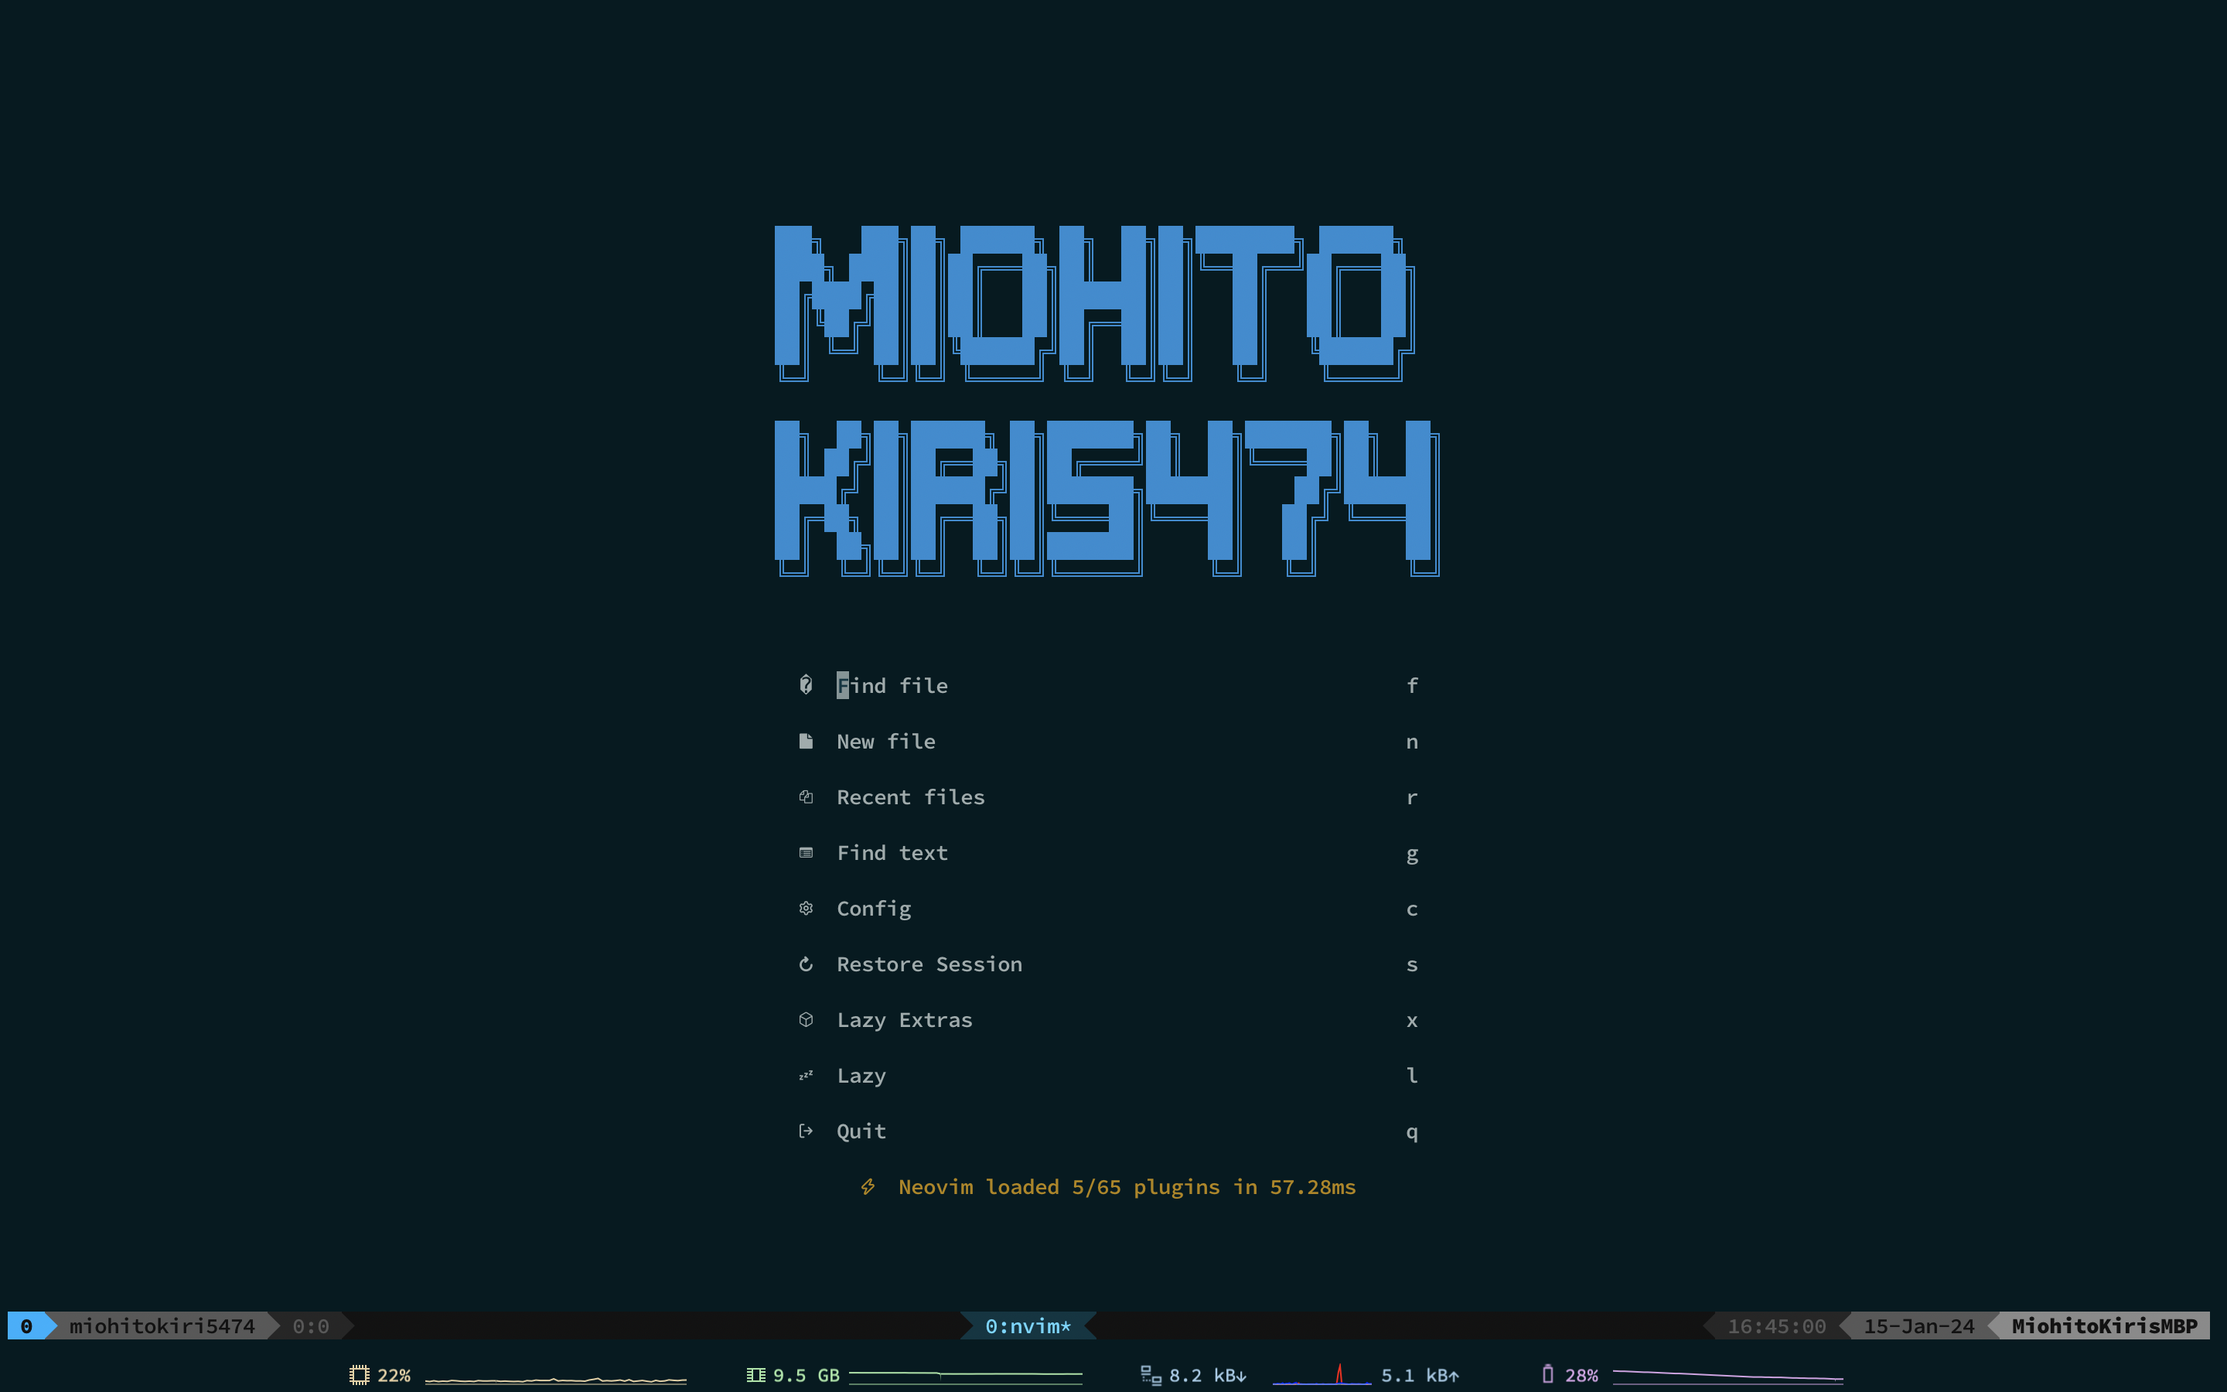
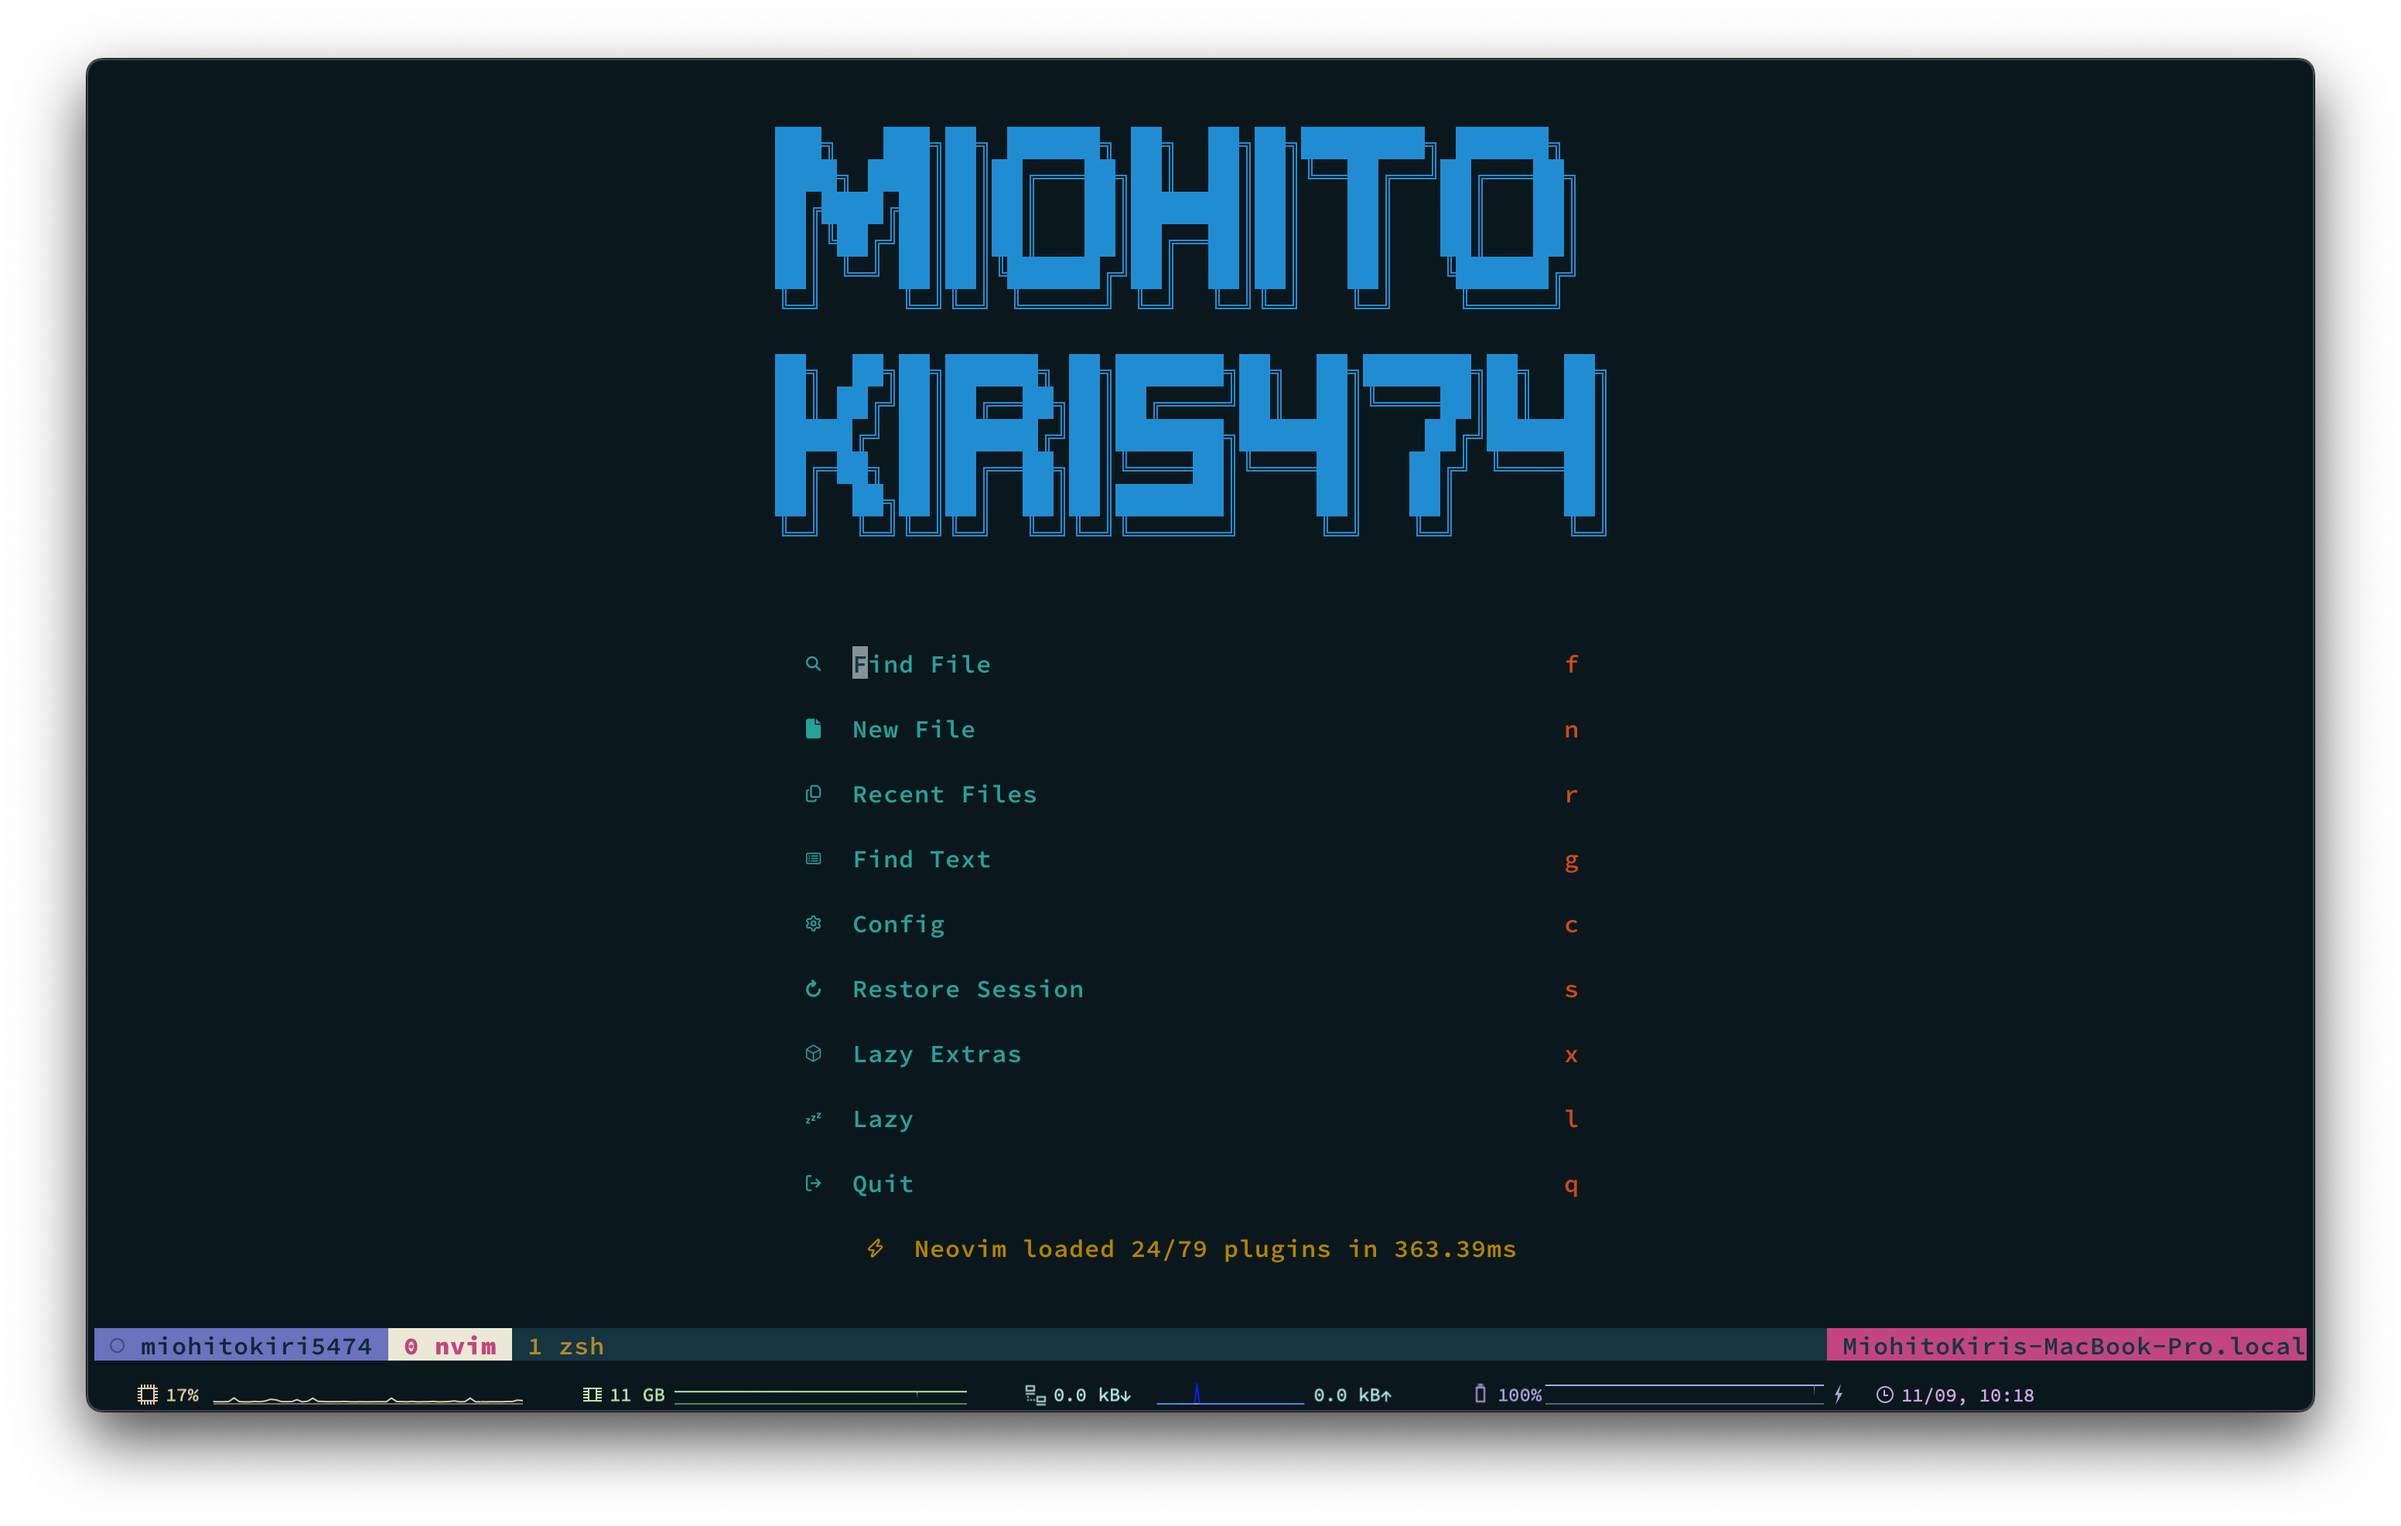
README: Update screenshot in readme

Changed region(s): [[0.0, 0.0, 1.0, 1.0], [0.3438, 0.4667, 0.4375, 0.6533], [0.3438, 0.6844, 0.4375, 0.7467]]

diff --git a/README.md b/README.md
@@ -10,11 +10,13 @@ These are the minimal configuration.
 
 This configuration is base on [LazyVim](lazyvim.org) with some modify.
 
-![](/images/cover.png)
-![](/images/lazy-nvim.png)
-![](/images/fuzzy.png)
-![](/images/shot-1.png)
-![](/images/shot-2.png)
+![cover](/images/cover.png)
+![fuzzy](/images/fuzzy.png)
+![fzf](/imagus/fzf.png)
+![syntax-error](/images/syntax-error.png)
+![tag](/images/tag.png)
+![terminal-split](/images/terminal-split.png)
+![test](/images/test.png)
 
 ## Requirements
 
